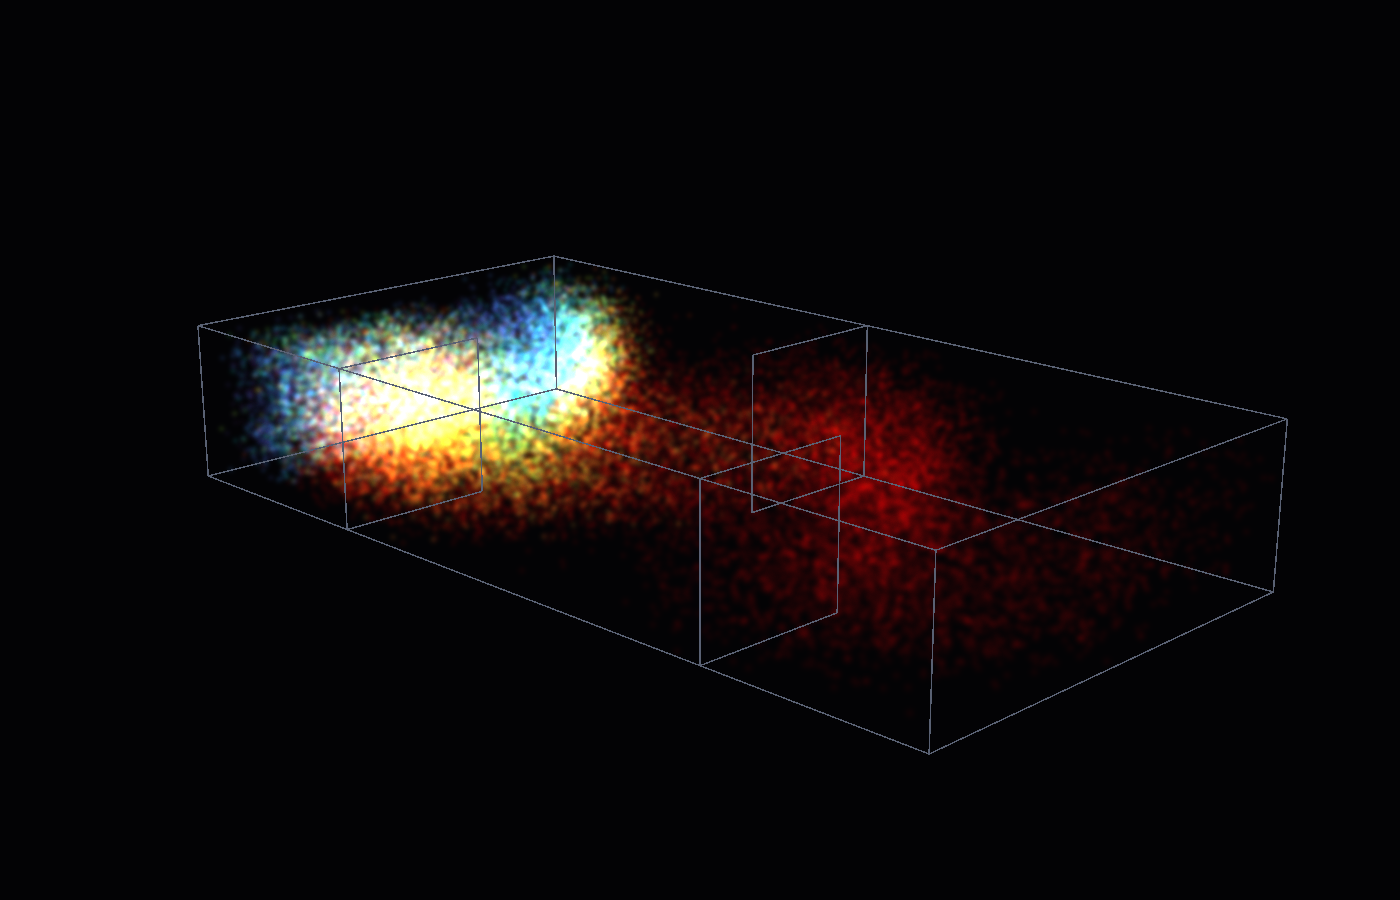
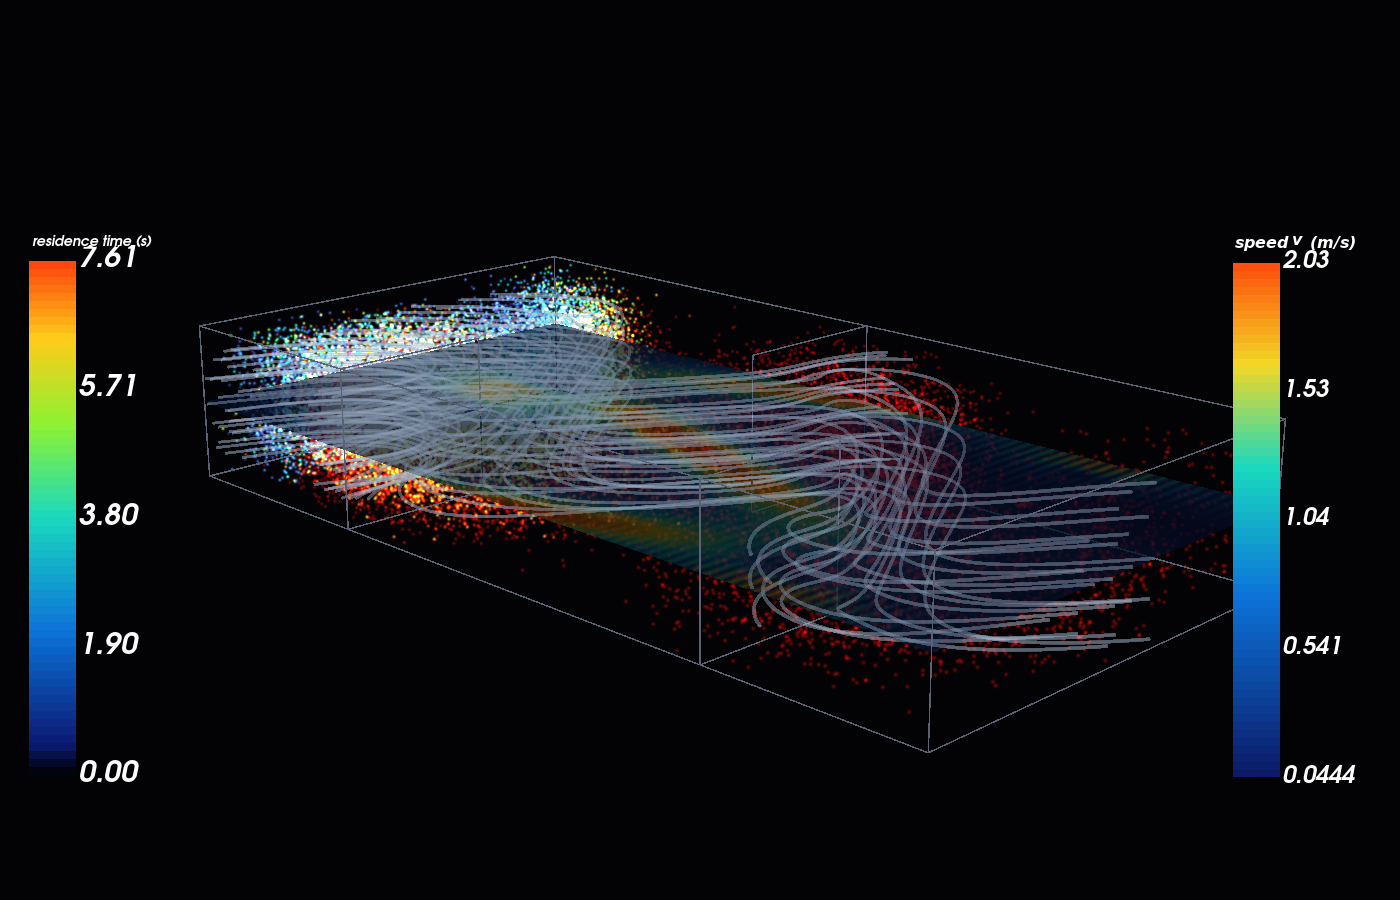
demo_particle_flow: streamlines in the Monte Carlo, dots, cross-section, legends
Four asks, all in one live scene.

* **Streamlines are part of the Monte Carlo window** now, not a separate
  demo -- thin, neutral and quiet, giving the shape of the velocity field
  without competing for the particles' colour.

* **Particles are small dots** with high alpha rather than big soft splats.
  --splat-scale 0.40 and --opacity 0.85: crisp specks you can read the
  colour of.  (The gaussian splats were pretty but at 40k count they
  accumulated to white and the residence-time gradient was lost.)

* **`v` toggles a 2-D cross-section** through mid-depth, coloured by speed.
  That is the velocity visualisation and the cross section in one: the
  meandering jet reads as a coloured band across the slice and the stagnant
  zones go dark.

* **Colour bars, because the colours mean something.**  Residence time in
  seconds on the left, |v| in m/s on the right -- both with units and a
  title, and `c` toggles them.  `p` and `l` toggle the particles and
  streamlines.

Keys: `v` cross-section, `p` particles, `l` streamlines, `c` colour bars,
`space` pause, `q` quit.

One real bug found by looking at the render rather than the code: the
cross-section arrived as a flat grey slab, because its scalars were written to
CELL data while the mapper was told to use POINT data.  They are per-vertex,
so it is GetPointData().  `--with-slice` renders the still with the
cross-section on so this is checkable without a window.

70 tests, ruff clean.

diff --git a/examples/demo_particle_flow.py b/examples/demo_particle_flow.py
@@ -1,21 +1,27 @@
-"""A 4-D particle simulation, live: thousands of particles, for ever.
+"""A live 4-D Monte Carlo in a contact tank -- particles, streamlines, cross-section.
 
     uv run --extra dev python examples/demo_particle_flow.py
 
-Not a pre-rendered animation.  40 000 particles are advected through the
-contact-tank flow with RK4 plus an eddy diffusivity, and any that leave are
-reborn at the inlet -- so the cloud reaches a statistical steady state and the
-simulation simply runs, at the frame rate of the window, for as long as you
-let it.  There is no last frame and nothing is cached.
+Endless and interactive.  40 000 particles are advected through the flow with
+RK4 plus an eddy diffusivity and reborn at the inlet when they leave, so the
+cloud is in statistical steady state and simply runs at the frame rate of the
+window.  Nothing is pre-rendered and nothing is cached.
 
-Semi-transparent gaussian splats, so forty thousand of them accumulate into a
-cloud you can see through rather than a solid mass.  Coloured by how long each
-particle has been in the tank: cool where fluid is young and moving, warm in
-the stagnant pools behind the baffles.
+What is on screen, and what each thing means:
 
-Left-drag rotates while it runs.  The physics is one vectorised numpy pass per
-frame -- tens of thousands of particles cost a few milliseconds, which is why
-this can be endless and interactive at the same time.
+* **Particles** -- small dots, one per parcel of fluid, coloured by **residence
+    time**, i.e. how long since that parcel entered.  The colour bar is there
+    because this is a physical quantity with units (seconds), not decoration.
+* **Streamlines** -- the shape of the velocity field, thin and neutral so they
+    do not compete with the particles' colour.
+* **`v` -- velocity cross-section.**  A slice through mid-depth coloured by
+    speed |v|, with its own colour bar.  This is both the velocity
+    visualisation and the 2-D cross section: it shows where the jet runs and
+    where the fluid sits still.
+* **`p` / `l` / `c`** -- toggle particles, streamlines, colour bars.
+
+Keys: `v` cross-section, `p` particles, `l` streamlines, `c` colour bars,
+`space` pause, `q` quit.  Left-drag rotates while it runs.
 """
 import argparse
 
@@ -23,7 +29,132 @@ import numpy as np
 import vtk
 from demo_contact_tank import H, L, W, tank_edges, velocity_at
 
-from pyviz4d import ParticleCloudActor, Viewer4D, render_to_png, viewpoint
+from pyviz4d import ParticleCloudActor, StreamlineActor, Viewer4D, render_to_png, viewpoint
+
+
+def speed_slice(z=0.5 * H, nx=140, ny=70):
+    """A mid-depth plane of |v|, as a triangle mesh with per-vertex scalars."""
+    xs = np.linspace(0.0, L, nx)
+    ys = np.linspace(0.0, W, ny)
+    X, Y = np.meshgrid(xs, ys, indexing="ij")
+    u, v, w = velocity_at(X, Y, np.full_like(X, z))
+    sp = np.sqrt(u * u + v * v + w * w)
+
+    pts = vtk.vtkPoints()
+    for i in range(nx):
+        for j in range(ny):
+            pts.InsertNextPoint(X[i, j], Y[i, j], z)
+    scal = vtk.vtkFloatArray()
+    scal.SetName("speed")
+    for j in range(ny):
+        for i in range(nx):
+            scal.InsertNextTuple1(float(sp[i, j]))
+
+    tris = vtk.vtkCellArray()
+    for i in range(nx - 1):
+        for j in range(ny - 1):
+            a = i * ny + j
+            b = (i + 1) * ny + j
+            idl = vtk.vtkIdList()
+            for k in (a, b, b + 1, a + 1):
+                idl.InsertNextId(k)
+            tris.InsertNextCell(idl)
+
+    pd = vtk.vtkPolyData()
+    pd.SetPoints(pts)
+    pd.SetPolys(tris)
+    pd.GetPointData().SetScalars(scal)   # per-vertex, so POINT data
+    rng = (float(sp.min()), float(sp.max()))
+
+    lut = vtk.vtkColorTransferFunction()
+    for t, c in ((0.0, (0.05, 0.10, 0.40)), (0.35, (0.05, 0.45, 0.85)),
+                 (0.60, (0.10, 0.85, 0.75)), (0.80, (0.95, 0.85, 0.15)),
+                 (1.0, (1.00, 0.30, 0.05))):
+        lut.AddRGBPoint(rng[0] + t * (rng[1] - rng[0]), *c)
+
+    mapper = vtk.vtkPolyDataMapper()
+    mapper.SetInputData(pd)
+    mapper.SetLookupTable(lut)
+    mapper.SetScalarRange(*rng)
+    mapper.SetScalarModeToUsePointData()
+    actor = vtk.vtkActor()
+    actor.SetMapper(mapper)
+    actor.GetProperty().SetOpacity(0.75)
+    return actor, lut, rng
+
+
+def age_colourbar(age_max):
+    """The particle legend: residence time, in seconds."""
+    lut = vtk.vtkColorTransferFunction()
+    for t, c in ((0.0, (0.0, 0.0, 0.0)), (0.06, (0.05, 0.10, 0.45)),
+                 (0.28, (0.05, 0.45, 0.85)), (0.50, (0.10, 0.85, 0.75)),
+                 (0.68, (0.55, 0.95, 0.20)), (0.85, (1.00, 0.80, 0.10)),
+                 (1.0, (1.00, 0.25, 0.05))):
+        lut.AddRGBPoint(t * age_max, *c)
+    bar = vtk.vtkScalarBarActor()
+    bar.SetLookupTable(lut)
+    bar.SetTitle("residence time (s)")
+    bar.SetNumberOfLabels(5)
+    bar.SetPosition(0.02, 0.12)
+    bar.SetPosition2(0.09, 0.62)
+    bar.GetTitleTextProperty().SetColor(1, 1, 1)
+    bar.GetTitleTextProperty().SetFontSize(14)
+    bar.GetLabelTextProperty().SetColor(1, 1, 1)
+    bar.GetLabelTextProperty().SetFontSize(12)
+    bar.SetAnnotationTextScaling(0)
+    bar.GetAnnotationTextProperty().SetColor(1, 1, 1)
+    return bar
+
+
+def speed_colourbar(rng):
+    lut = vtk.vtkColorTransferFunction()
+    for t, c in ((0.0, (0.05, 0.10, 0.40)), (0.35, (0.05, 0.45, 0.85)),
+                 (0.60, (0.10, 0.85, 0.75)), (0.80, (0.95, 0.85, 0.15)),
+                 (1.0, (1.00, 0.30, 0.05))):
+        lut.AddRGBPoint(rng[0] + t * (rng[1] - rng[0]), *c)
+    bar = vtk.vtkScalarBarActor()
+    bar.SetLookupTable(lut)
+    bar.SetTitle("speed |v| (m/s)")
+    bar.SetNumberOfLabels(5)
+    bar.SetPosition(0.88, 0.12)
+    bar.SetPosition2(0.09, 0.62)
+    bar.GetTitleTextProperty().SetColor(1, 1, 1)
+    bar.GetTitleTextProperty().SetFontSize(14)
+    bar.GetLabelTextProperty().SetColor(1, 1, 1)
+    bar.GetLabelTextProperty().SetFontSize(12)
+    bar.SetAnnotationTextScaling(0)
+    bar.GetAnnotationTextProperty().SetColor(1, 1, 1)
+    return bar
+
+
+def streamlines(ny=16, nz=5, seed=3):
+    """The velocity field's shape: a curtain of thin neutral ribbons."""
+    u, v, w = velocity_at(*np.meshgrid(
+        np.linspace(0, L, 110), np.linspace(0, W, 55),
+        np.linspace(0, H, 24), indexing="ij"))
+    spacing = (L / 109.0, W / 54.0, H / 23.0)
+
+    rng = np.random.default_rng(seed)
+    pts = vtk.vtkPoints()
+    for yy in np.linspace(0.35, W - 0.35, ny):
+        for zz in np.linspace(0.20 * H, 0.80 * H, nz):
+            pts.InsertNextPoint(0.7 + rng.normal(0, 0.06),
+                               yy + rng.normal(0, 0.06),
+                               zz + rng.normal(0, 0.03))
+    seeds = vtk.vtkPolyData()
+    seeds.SetPoints(pts)
+
+    sl = StreamlineActor([(u, v, w)], spacing=spacing, seeds=seeds,
+                         direction="both", max_propagation=46.0,
+                         initial_step=0.15, max_steps=4000,
+                         color_by_magnitude=False,
+                         tube_radius=0.02, line_width=1.0)
+    prop = sl.actor.GetProperty()
+    prop.SetColor(0.72, 0.80, 0.90)          # neutral: the particles own the colour
+    prop.SetOpacity(0.28)
+    prop.SetAmbient(0.7)
+    prop.SetDiffuse(0.3)
+    return sl
 
 
 def main():
@@ -32,65 +163,99 @@ def main():
     p.add_argument("--particles", type=int, default=40000)
     p.add_argument("--dt", type=float, default=0.045)
     p.add_argument("--diffusivity", type=float, default=0.02)
-    p.add_argument("--opacity", type=float, default=0.085,
-                   help="per-splat alpha; low accumulates into a see-through cloud")
-    p.add_argument("--splat-scale", type=float, default=1.0,
-                   help="splat radius multiplier (0.05 m at 1.0)")
-    p.add_argument("--color-by", choices=["age", "speed"], default="age")
-    p.add_argument("--png", default="docs/particle_flow.png",
-                   help="still only in --steps mode")
-    p.add_argument("--warmup", type=int, default=150,
-                   help="steps integrated before the window opens")
+    p.add_argument("--opacity", type=float, default=0.85,
+                   help="per-dot alpha; high = crisp dots, low = a haze")
+    p.add_argument("--splat-scale", type=float, default=0.40,
+                   help="dot size multiplier (0.007 m at 1.0)")
+    p.add_argument("--warmup", type=int, default=150)
+    p.add_argument("--with-slice", action="store_true",
+                   help="in --steps mode, show the velocity cross-section too")
     p.add_argument("--steps", type=int, default=0,
-                   help=">0: integrate this many steps and write a still instead "
-                        "of opening the endless window")
+                   help=">0: integrate this many steps and write a still")
+    p.add_argument("--png", default="docs/particle_flow.png")
     p.add_argument("--size", nargs=2, type=int, default=[1400, 900])
     args = p.parse_args()
 
     bounds = ((0.0, L), (0.0, W), (0.0, H))
     inlet = ((0.0, 1.2), (0.3, W - 0.3), (0.15 * H, 0.85 * H))
-
     cloud = ParticleCloudActor(velocity_at, bounds, inlet,
                                n=args.particles, dt=args.dt,
-                               kappa=args.diffusivity, color_by=args.color_by,
+                               kappa=args.diffusivity, color_by="age",
                                splat_scale=args.splat_scale,
                                opacity=args.opacity, seed=0)
-    # Warm up, then calibrate the colour scale off the cloud that actually
-    # develops.  A fixed age_max of 1 clamps every particle to the hot end and
-    # the picture is one flat colour (tried); the residence times here run to
-    # several time units, so the scale has to come from the simulation.
     for _ in range(args.warmup):
         cloud.update(0.0)
     cloud.age_max = float(np.percentile(cloud.age, 95)) or 1.0
-    print(f"{args.particles} particles  dt {args.dt}  kappa {args.diffusivity}  "
-          f"alpha {args.opacity}  age scale 0..{cloud.age_max:.2f}")
 
-    cam = vtk.vtkCamera()
-    cam.SetFocalPoint(0.5 * L, 0.5 * W, 0.45 * H)
-    cam.SetPosition(0.5 * L + 1.1 * L, -0.85 * L, 0.55 * L)
-    cam.SetViewUp(0, 0, 1)
+    sl = streamlines()
+    slice_actor, _, slice_rng = speed_slice()
+    age_bar = age_colourbar(cloud.age_max)
+    vel_bar = speed_colourbar(slice_rng)
+    edges = tank_edges()
+    slice_actor.SetVisibility(0)
+    vel_bar.SetVisibility(0)
+
+    print(f"{args.particles} particles  age 0..{cloud.age_max:.2f} s  "
+          f"|v| {slice_rng[0]:.2f}..{slice_rng[1]:.2f} m/s")
+    print("keys: v cross-section   p particles   l streamlines   c colour bars   q quit")
 
     if args.steps:
         for i in range(args.steps):
             cloud.update(float(i))
-            if (i + 1) % 50 == 0:
-                print(f"  step {i+1:5d}  age p50 {np.median(cloud.age):.2f}")
-        render_to_png([cloud.actor, tank_edges()], args.png,
-                      size=(args.size[0], args.size[1]), camera=cam,
-                      bg_color=(0.01, 0.01, 0.02), zoom=1.3)
-        print(f"wrote {args.png} after {args.steps} steps")
+        still = [cloud.actor, sl.actor, edges, age_bar]
+        if args.with_slice:
+            slice_actor.SetVisibility(1)
+            vel_bar.SetVisibility(1)
+            still = [slice_actor, cloud.actor, sl.actor, edges,
+                     age_bar, vel_bar]
+        render_to_png(still, args.png, size=(args.size[0], args.size[1]),
+                      camera=_cam(), bg_color=(0.01, 0.01, 0.02), zoom=1.3)
+        print(f"wrote {args.png}")
         return 0
 
     viewer = Viewer4D(size=(args.size[0], args.size[1]),
                       bg_color=(0.01, 0.01, 0.02))
     viewer.ren_win.SetMultiSamples(4)
-    viewer.add_actor(cloud)
-    viewer.add_actor(tank_edges())
-    viewpoint(viewer.ren, cam)
-    print("running for ever -- left-drag rotate, middle/shift-drag pan, "
-          "scroll zoom, q quit")
-    viewer.start(timer_interval_ms=16)     # ~60 fps: 4 RK4 stages each tick
+    for a in (cloud, sl, slice_actor, edges):
+        viewer.add_actor(a)
+    viewer.ren.AddActor2D(age_bar)
+    viewer.ren.AddActor2D(vel_bar)
+    viewpoint(viewer.ren, _cam())
+
+    state = {"slice": False, "bar": True}
+
+    def on_key(obj, _e):
+        k = obj.GetKeySym().lower()
+        if k == "v":
+            state["slice"] = not state["slice"]
+            slice_actor.SetVisibility(state["slice"])
+            vel_bar.SetVisibility(state["slice"] and state["bar"])
+        elif k == "p":
+            cloud.actor.SetVisibility(0 if cloud.actor.GetVisibility() else 1)
+        elif k == "l":
+            sl.actor.SetVisibility(0 if sl.actor.GetVisibility() else 1)
+        elif k == "c":
+            state["bar"] = not state["bar"]
+            age_bar.SetVisibility(state["bar"])
+            vel_bar.SetVisibility(state["bar"] and state["slice"])
+        else:
+            return
+        obj.GetRenderWindow().Render()
+
+    # Viewer4D binds f and r at priority 1.0 and space once playback UI exists;
+    # these are all free.
+    viewer.iren.AddObserver("KeyPressEvent", on_key)
+    print("running for ever -- left-drag rotate, scroll zoom, q quit")
+    viewer.start(timer_interval_ms=16)
     return 0
+
+
+def _cam():
+    cam = vtk.vtkCamera()
+    cam.SetFocalPoint(0.5 * L, 0.5 * W, 0.45 * H)
+    cam.SetPosition(0.5 * L + 1.1 * L, -0.85 * L, 0.55 * L)
+    cam.SetViewUp(0, 0, 1)
+    return cam
 
 
 if __name__ == "__main__":

diff --git a/README.md b/README.md
@@ -146,6 +146,21 @@ uv run --extra dev python examples/demo_particle_flow.py     # endless window
 
 ![A live particle cloud in a contact tank: blue at the inlet, green mid-tank, red in the downstream pools](docs/particle_flow.png)
 
+Streamlines are in the same scene — thin and neutral, so they give the shape
+of the velocity field without competing for the particles' colour. `v` toggles
+a **2-D cross-section** through mid-depth coloured by speed, which is the
+velocity visualisation: it shows where the jet runs and where the fluid sits
+still. Because the colours carry physical quantities, so do the legends:
+*residence time (s)* for the particles and *speed |v| (m/s)* for the slice.
+
+| key | |
+| --- | --- |
+| `v` | velocity cross-section |
+| `p` | particles |
+| `l` | streamlines |
+| `c` | colour bars |
+| `space` / `q` | pause / quit |
+
 One vectorised numpy pass per frame — 40 000 particles cost ~25 ms, which is
 why it can be endless and interactive at once. This is `pyviz4d.ParticleCloudActor`,
 and it is the 4-D half of the package: everything else here renders a time
